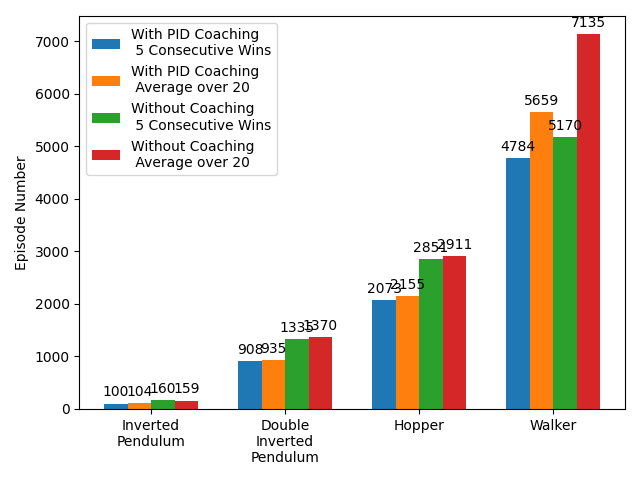
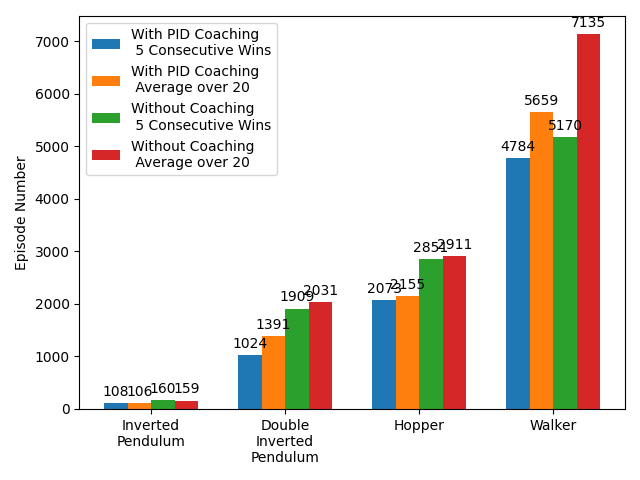
new

Changed region(s): [[0.375, 0.5938, 0.5312, 0.75], [0.1875, 0.8125, 0.25, 0.8438]]

diff --git a/PIDvsRL/compare.py b/PIDvsRL/compare.py
@@ -36,10 +36,10 @@ walker_evaluation_record=pickle.load(open( "walker_evaluation_record.p", "rb"))[
 
 
 n_groups = 4
-standard=[800,5500,800,800]
+standard=[800,7000,800,800]
 without=[ip_without,double_without,hopper_without,walker_without]
 coached=[ip_record,double_record,hopper_record,walker_record]
-average_over=[20,100,100,100]
+average_over=[20,150,100,100]
 
 evaluation_without=[ip_evaluation_record_without,double_evaluation_record_without,hopper_evaluation_record_without,walker_evaluation_record_without]
 evaluation=[ip_evaluation_record,double_evaluation_record,hopper_evaluation_record,walker_evaluation_record]
@@ -104,9 +104,11 @@ for i in range(len(name)):
     plt.fill_between(x, without_record - without_standard_deviation, without_record+without_standard_deviation,color='gray',alpha=0.3)
     plt.plot(x,coached_record,label='Coached by PID Controller\nEvaluation %s'%evalu_ave,color='royalblue')
     plt.fill_between(x, coached_record - coached_standard_deviation, coached_record+coached_standard_deviation,color='royalblue',alpha=0.3)
-    plt.xlabel('Episode Number', fontsize='large')
-    plt.ylabel('Episode Reward', fontsize='large')
-    plt.legend(loc='upper left',ncol=1, borderaxespad=0,prop={'size': 18})
+    plt.xlabel('Episode Number', fontsize=25)
+    plt.xticks(fontsize=18) 
+    plt.ylabel('Episode Reward', fontsize=25)
+    plt.yticks(fontsize=18)
+    plt.legend(loc='upper left',ncol=1, borderaxespad=0,prop={'size': 20})
     plt.axhline(y=env_standard, color='black', linestyle='dotted')
     plt.savefig('%s.png' %name[i])
 
